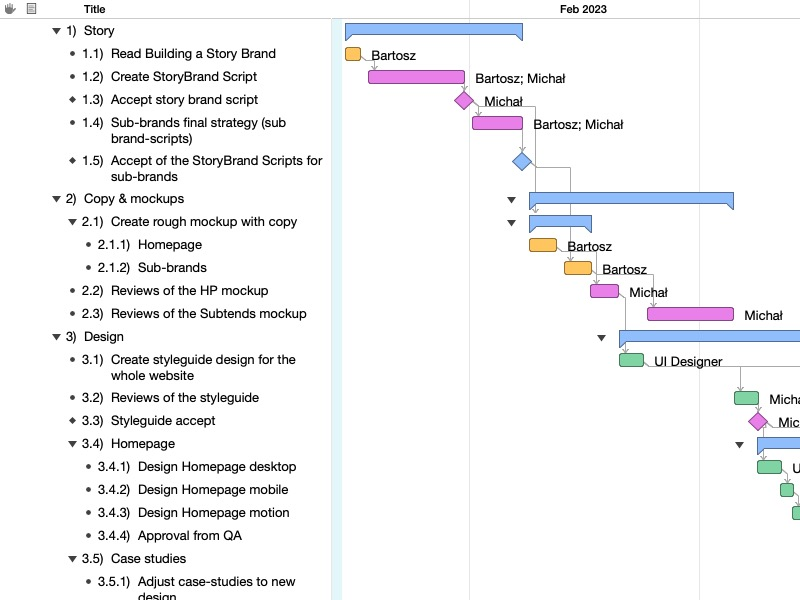
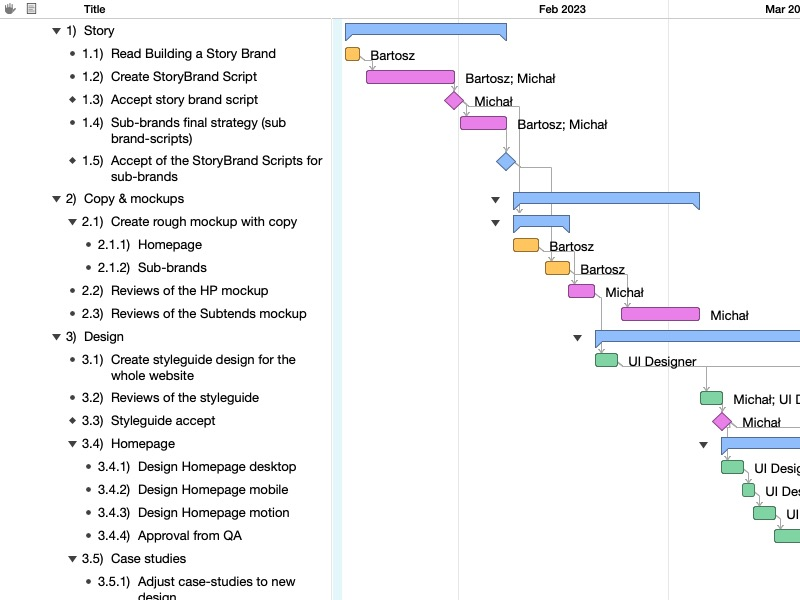
new version

diff --git a/resource.html b/resource.html
@@ -89,7 +89,7 @@
             <tr class="resource Staff">
                 <td style="padding-left: 10px;">UI Designer</td>
                 <td>20/02/2023</td>
-                <td>29/03/2023</td>
+                <td>05/04/2023</td>
                 <td>5w</td>
                 <td>0%</td>
                 <td align="right">2,235.00 PLN</td>
@@ -143,14 +143,6 @@
                 <td align="right">150.00 PLN</td>
             </tr>
             <tr>
-                <td style="padding-left: 18px;" class="wrap taskTypeTask">Design culture desktop</td> 
-                <td>17/03/2023</td>
-                <td>21/03/2023</td>
-                <td>3d</td>
-                <td>0%</td>
-                <td align="right">150.00 PLN</td>
-            </tr>
-            <tr>
                 <td style="padding-left: 18px;" class="wrap taskTypeTask">Adjust case-studies to new design</td> 
                 <td>22/03/2023</td>
                 <td>22/03/2023</td>
@@ -159,57 +151,65 @@
                 <td align="right">150.00 PLN</td>
             </tr>
             <tr>
+                <td style="padding-left: 18px;" class="wrap taskTypeTask">Design culture desktop</td> 
+                <td>23/03/2023</td>
+                <td>27/03/2023</td>
+                <td>3d</td>
+                <td>0%</td>
+                <td align="right">150.00 PLN</td>
+            </tr>
+            <tr>
                 <td style="padding-left: 18px;" class="wrap taskTypeTask">Design culture mobile</td> 
-                <td>22/03/2023</td>
-                <td>22/03/2023</td>
+                <td>28/03/2023</td>
+                <td>28/03/2023</td>
+                <td>1d</td>
+                <td>0%</td>
+                <td align="right">150.00 PLN</td>
+            </tr>
+            <tr>
+                <td style="padding-left: 18px;" class="wrap taskTypeTask">Review and approval</td> 
+                <td>29/03/2023</td>
+                <td>29/03/2023</td>
                 <td>1d</td>
                 <td>0%</td>
                 <td align="right">150.00 PLN</td>
             </tr>
             <tr>
                 <td style="padding-left: 18px;" class="wrap taskTypeTask">Subbrand LP 1</td> 
-                <td>23/03/2023</td>
-                <td>23/03/2023</td>
-                <td>1d</td>
-                <td>0%</td>
-                <td align="right">150.00 PLN</td>
-            </tr>
-            <tr>
-                <td style="padding-left: 18px;" class="wrap taskTypeTask">Review and approval</td> 
-                <td>23/03/2023</td>
-                <td>23/03/2023</td>
+                <td>30/03/2023</td>
+                <td>30/03/2023</td>
                 <td>1d</td>
                 <td>0%</td>
                 <td align="right">150.00 PLN</td>
             </tr>
             <tr>
                 <td style="padding-left: 18px;" class="wrap taskTypeTask">Subbrand LP 2</td> 
-                <td>24/03/2023</td>
-                <td>24/03/2023</td>
+                <td>31/03/2023</td>
+                <td>31/03/2023</td>
                 <td>1d</td>
                 <td>0%</td>
                 <td align="right">150.00 PLN</td>
             </tr>
             <tr>
                 <td style="padding-left: 18px;" class="wrap taskTypeTask">Subbrand LP 3</td> 
-                <td>27/03/2023</td>
-                <td>27/03/2023</td>
+                <td>03/04/2023</td>
+                <td>03/04/2023</td>
                 <td>1d</td>
                 <td>0%</td>
                 <td align="right">150.00 PLN</td>
             </tr>
             <tr>
                 <td style="padding-left: 18px;" class="wrap taskTypeTask">Mobile versions</td> 
-                <td>28/03/2023</td>
-                <td>28/03/2023</td>
+                <td>04/04/2023</td>
+                <td>04/04/2023</td>
                 <td>1d</td>
                 <td>0%</td>
                 <td align="right">150.00 PLN</td>
             </tr>
             <tr>
                 <td style="padding-left: 18px;" class="wrap taskTypeTask">Review and approval</td> 
-                <td>29/03/2023</td>
-                <td>29/03/2023</td>
+                <td>05/04/2023</td>
+                <td>05/04/2023</td>
                 <td>1d</td>
                 <td>0%</td>
                 <td align="right">150.00 PLN</td>
@@ -265,10 +265,10 @@
             <tr class="resource Staff">
                 <td style="padding-left: 10px;">Michał</td>
                 <td>19/01/2023</td>
-                <td>29/03/2023</td>
-                <td>1w 0,25h</td>
+                <td>05/04/2023</td>
+                <td>1w 2,25h</td>
                 <td>0%</td>
-                <td align="right">12,800.00 PLN</td>
+                <td align="right">12,960.00 PLN</td>
             </tr>
             <tr>
                 <td style="padding-left: 18px;" class="wrap taskTypeTask">Create StoryBrand Script</td> 
@@ -336,16 +336,16 @@
             </tr>
             <tr>
                 <td style="padding-left: 18px;" class="wrap taskTypeTask">Review and approval</td> 
-                <td>23/03/2023</td>
-                <td>23/03/2023</td>
-                <td>0h</td>
+                <td>29/03/2023</td>
+                <td>29/03/2023</td>
+                <td>2h</td>
                 <td>0%</td>
-                <td align="right"></td>
+                <td align="right">160.00 PLN</td>
             </tr>
             <tr>
                 <td style="padding-left: 18px;" class="wrap taskTypeTask">Review and approval</td> 
-                <td>29/03/2023</td>
-                <td>29/03/2023</td>
+                <td>05/04/2023</td>
+                <td>05/04/2023</td>
                 <td>2h</td>
                 <td>0%</td>
                 <td align="right">160.00 PLN</td>

diff --git a/task.html b/task.html
@@ -241,11 +241,11 @@
             <tr class="taskTypeGroup">
                 <td style="padding-left: 18px;" class="wrap">3) Design</td>
                 <td>20/02/2023</td>
-                <td>29/03/2023</td>
-                <td>5w 3d</td>
+                <td>05/04/2023</td>
+                <td>6w 3d</td>
                 <td>0%</td>
                 <td></td>
-                <td align="right">4,695.00 PLN</td>
+                <td align="right">4,855.00 PLN</td>
                 <td></td>
                 <td></td>
                 <td></td>
@@ -416,12 +416,12 @@
             </tr>
             <tr class="taskTypeGroup">
                 <td style="padding-left: 28px;" class="wrap">3.6) Culture</td>
-                <td>17/03/2023</td>
                 <td>23/03/2023</td>
+                <td>29/03/2023</td>
                 <td>1w</td>
                 <td>0%</td>
                 <td></td>
-                <td align="right">450.00 PLN</td>
+                <td align="right">610.00 PLN</td>
                 <td></td>
                 <td></td>
                 <td></td>
@@ -432,8 +432,8 @@
             </tr>
             <tr class="taskTypeTask">
                 <td style="padding-left: 38px;" class="wrap">3.6.1) Design culture desktop</td>
-                <td>17/03/2023</td>
-                <td>21/03/2023</td>
+                <td>23/03/2023</td>
+                <td>27/03/2023</td>
                 <td>3d</td>
                 <td>0%</td>
                 <td>3.3</td>
@@ -448,8 +448,8 @@
             </tr>
             <tr class="taskTypeTask">
                 <td style="padding-left: 38px;" class="wrap">3.6.2) Design culture mobile</td>
-                <td>22/03/2023</td>
-                <td>22/03/2023</td>
+                <td>28/03/2023</td>
+                <td>28/03/2023</td>
                 <td>1d</td>
                 <td>0%</td>
                 <td>3.6.1</td>
@@ -464,12 +464,12 @@
             </tr>
             <tr class="taskTypeTask">
                 <td style="padding-left: 38px;" class="wrap">3.6.3) Review and approval</td>
-                <td>23/03/2023</td>
-                <td>23/03/2023</td>
+                <td>29/03/2023</td>
+                <td>29/03/2023</td>
                 <td>1d</td>
                 <td>0%</td>
                 <td>3.6.2</td>
-                <td align="right">150.00 PLN</td>
+                <td align="right">310.00 PLN</td>
                 <td>Michał; UI Designer</td>
                 <td></td>
                 <td></td>
@@ -480,8 +480,8 @@
             </tr>
             <tr class="taskTypeGroup">
                 <td style="padding-left: 28px;" class="wrap">3.7) Sub-brands pages</td>
-                <td>23/03/2023</td>
-                <td>29/03/2023</td>
+                <td>30/03/2023</td>
+                <td>05/04/2023</td>
                 <td>1w</td>
                 <td>0%</td>
                 <td>3.3</td>
@@ -496,8 +496,8 @@
             </tr>
             <tr class="taskTypeTask">
                 <td style="padding-left: 38px;" class="wrap">3.7.1) Subbrand LP 1</td>
-                <td>23/03/2023</td>
-                <td>23/03/2023</td>
+                <td>30/03/2023</td>
+                <td>30/03/2023</td>
                 <td>1d</td>
                 <td>0%</td>
                 <td></td>
@@ -512,8 +512,8 @@
             </tr>
             <tr class="taskTypeTask">
                 <td style="padding-left: 38px;" class="wrap">3.7.2) Subbrand LP 2</td>
-                <td>24/03/2023</td>
-                <td>24/03/2023</td>
+                <td>31/03/2023</td>
+                <td>31/03/2023</td>
                 <td>1d</td>
                 <td>0%</td>
                 <td>3.7.1</td>
@@ -528,8 +528,8 @@
             </tr>
             <tr class="taskTypeTask">
                 <td style="padding-left: 38px;" class="wrap">3.7.3) Subbrand LP 3</td>
-                <td>27/03/2023</td>
-                <td>27/03/2023</td>
+                <td>03/04/2023</td>
+                <td>03/04/2023</td>
                 <td>1d</td>
                 <td>0%</td>
                 <td>3.7.2</td>
@@ -544,8 +544,8 @@
             </tr>
             <tr class="taskTypeTask">
                 <td style="padding-left: 38px;" class="wrap">3.7.4) Mobile versions</td>
-                <td>28/03/2023</td>
-                <td>28/03/2023</td>
+                <td>04/04/2023</td>
+                <td>04/04/2023</td>
                 <td>1d</td>
                 <td>0%</td>
                 <td>3.7.3</td>
@@ -560,8 +560,8 @@
             </tr>
             <tr class="taskTypeTask">
                 <td style="padding-left: 38px;" class="wrap">3.7.5) Review and approval</td>
-                <td>29/03/2023</td>
-                <td>29/03/2023</td>
+                <td>05/04/2023</td>
+                <td>05/04/2023</td>
                 <td>1d</td>
                 <td>0%</td>
                 <td>3.6.2, 3.7.4</td>

diff --git a/gantt.html b/gantt.html
@@ -33,12 +33,12 @@
             <h1>Widelab WWW 2023: <span class="subtitle">Gantt Chart</span></h1>
           <div class="tablewrap">  <table border="0" cellspacing="0" cellpadding="0">
 <tr>
-	<td><img src="include/gantt0,0.jpg?nocacheTag=-1142026324" border=0/></td>
-	<td><img src="include/gantt1,0.jpg?nocacheTag=-1817621208" border=0/></td>
+	<td><img src="include/gantt0,0.jpg?nocacheTag=-1140462060" border=0/></td>
+	<td><img src="include/gantt1,0.jpg?nocacheTag=1557497625" border=0/></td>
 </tr>
 <tr>
-	<td><img src="include/gantt0,1.jpg?nocacheTag=1954123492" border=0/></td>
-	<td><img src="include/gantt1,1.jpg?nocacheTag=-2108250453" border=0/></td>
+	<td><img src="include/gantt0,1.jpg?nocacheTag=-1926039798" border=0/></td>
+	<td><img src="include/gantt1,1.jpg?nocacheTag=-216970939" border=0/></td>
 </tr>
 </table>
 </div>

diff --git a/index.html b/index.html
@@ -38,7 +38,7 @@
 						<p>16/01/2023</p></li>
                     <li class="column"  id="endwrap">
 	                    <h3 id="end">End:</h3>
-						<p>31/03/2023</p>
+						<p>05/04/2023</p>
                     </li>
 
                 </ul>    	
@@ -51,7 +51,7 @@
     <h3>Completion:</h3><p>0%</p>
     <div id="bar"><div id="fill" style="width:0%;"></div></div></li>
   <li id="third" class="column">
-    <h3>Cost:</h3>35,465.00 PLN</li>
+    <h3>Cost:</h3>35,625.00 PLN</li>
 </ul>
 
 
